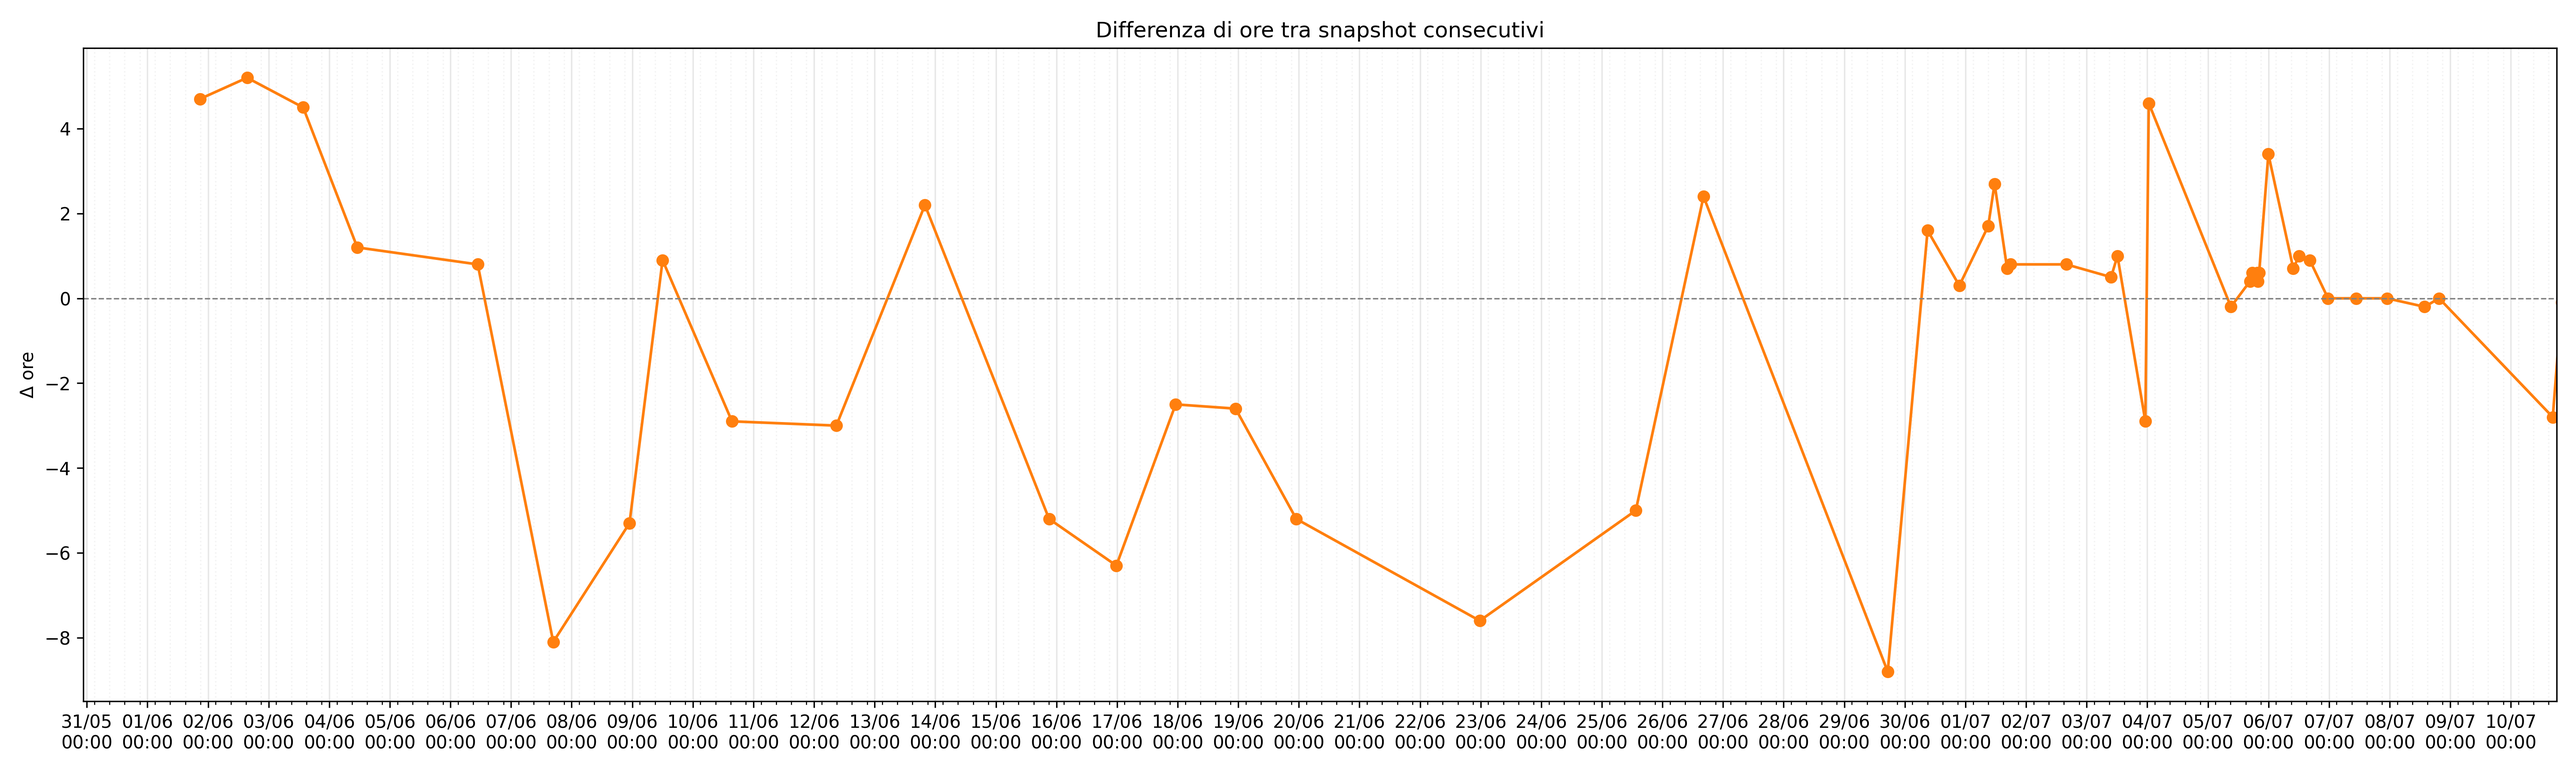
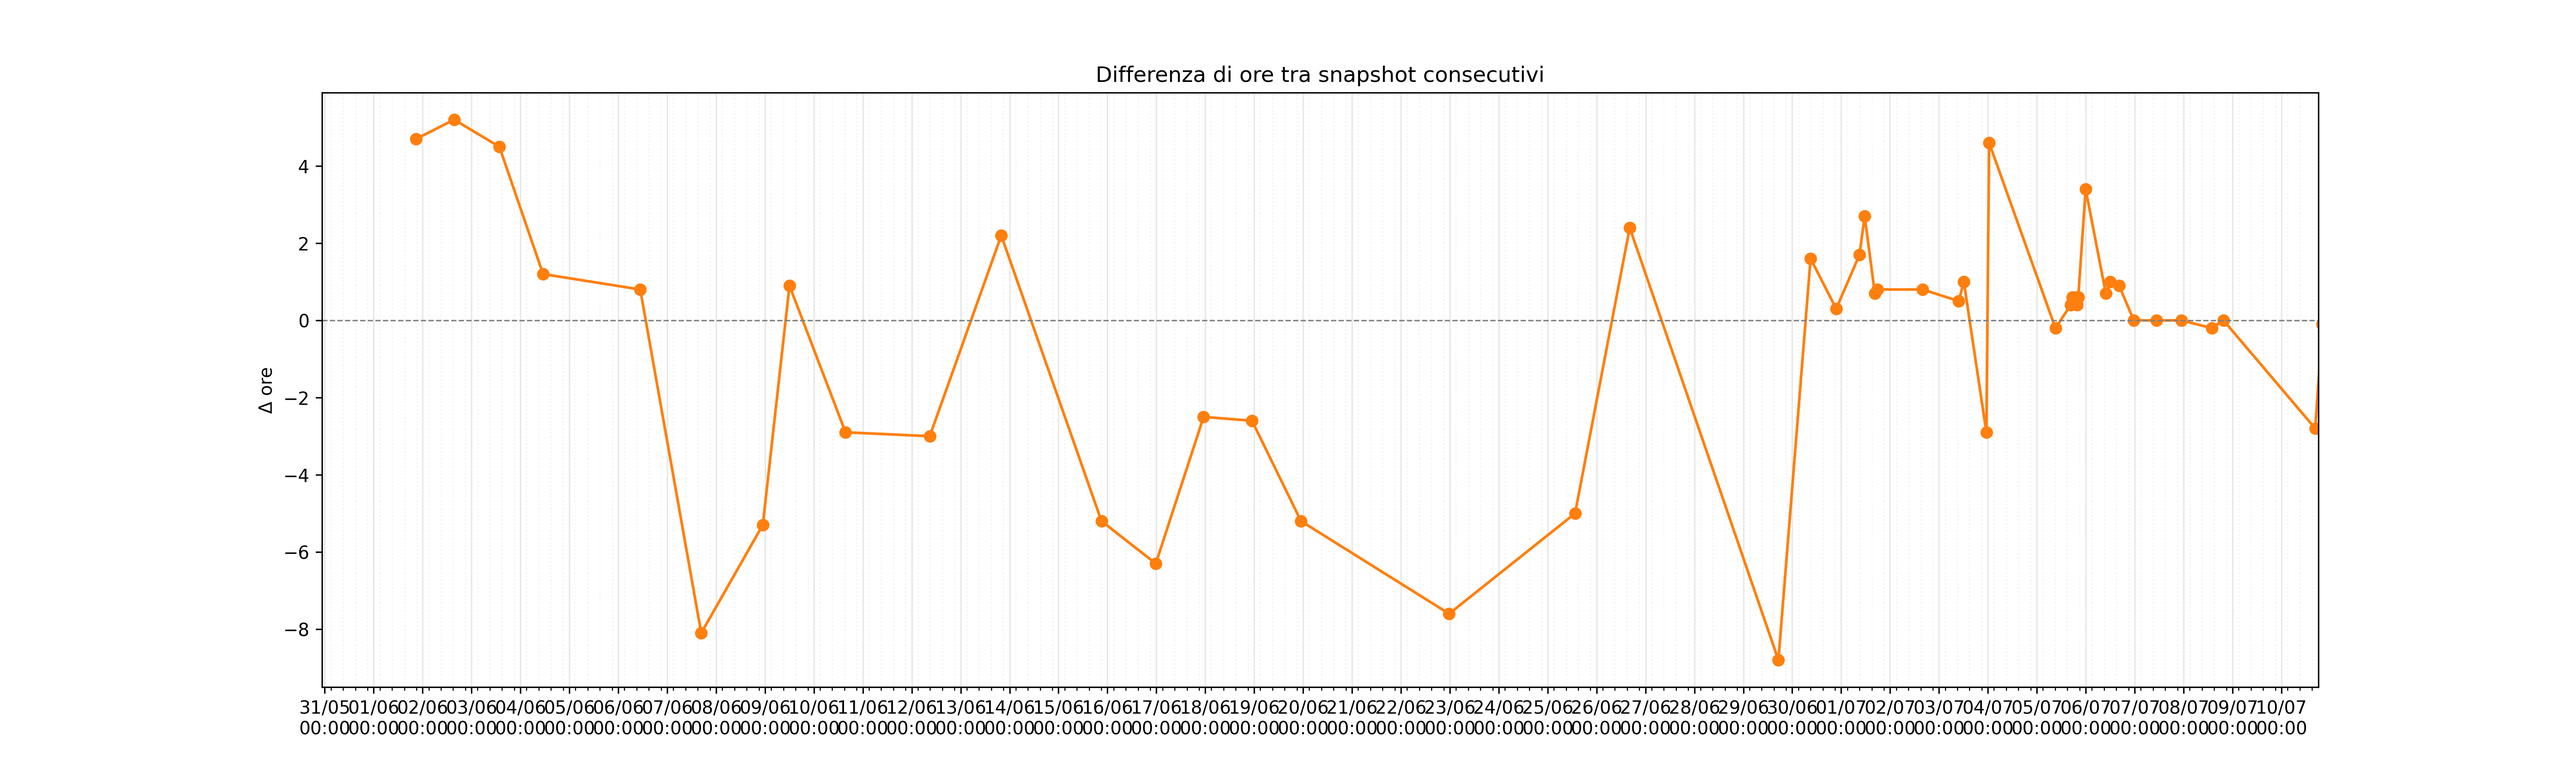
juj

diff --git a/calcolatore.py b/calcolatore.py
@@ -55,7 +55,7 @@ ax.set_title("Ore registrate (Steam: ultime 2 settimane)")
 ax.set_ylabel("Ore totali")
 ax.set_ylim(*get_y_limits(df["hours"]))
 configure_x_axis(ax)
-plt.tight_layout()
+#plt.tight_layout()
 fig.savefig("grafici/01_snapshot_ore.png", dpi=300)
 
 # Grafico 2 – Delta tra snapshot consecutivi
@@ -66,7 +66,7 @@ ax.set_ylabel("Δ ore")
 ax.axhline(0, color="gray", linestyle="--", linewidth=0.8)
 ax.set_ylim(*get_y_limits(df["delta_hours"]))
 configure_x_axis(ax)
-plt.tight_layout()
+#plt.tight_layout()
 fig.savefig("grafici/02_delta_ore.png", dpi=300)
 
 # Grafico 3 – Ore cumulative stimate
@@ -77,5 +77,5 @@ ax.set_ylabel("Ore totali aggiunte")
 ax.axhline(0, color="gray", linestyle="--", linewidth=0.8)
 ax.set_ylim(*get_y_limits(df["cumulative_delta"]))
 configure_x_axis(ax)
-plt.tight_layout()
+#plt.tight_layout()
 fig.savefig("grafici/03_delta_cumulativo.png", dpi=300)
